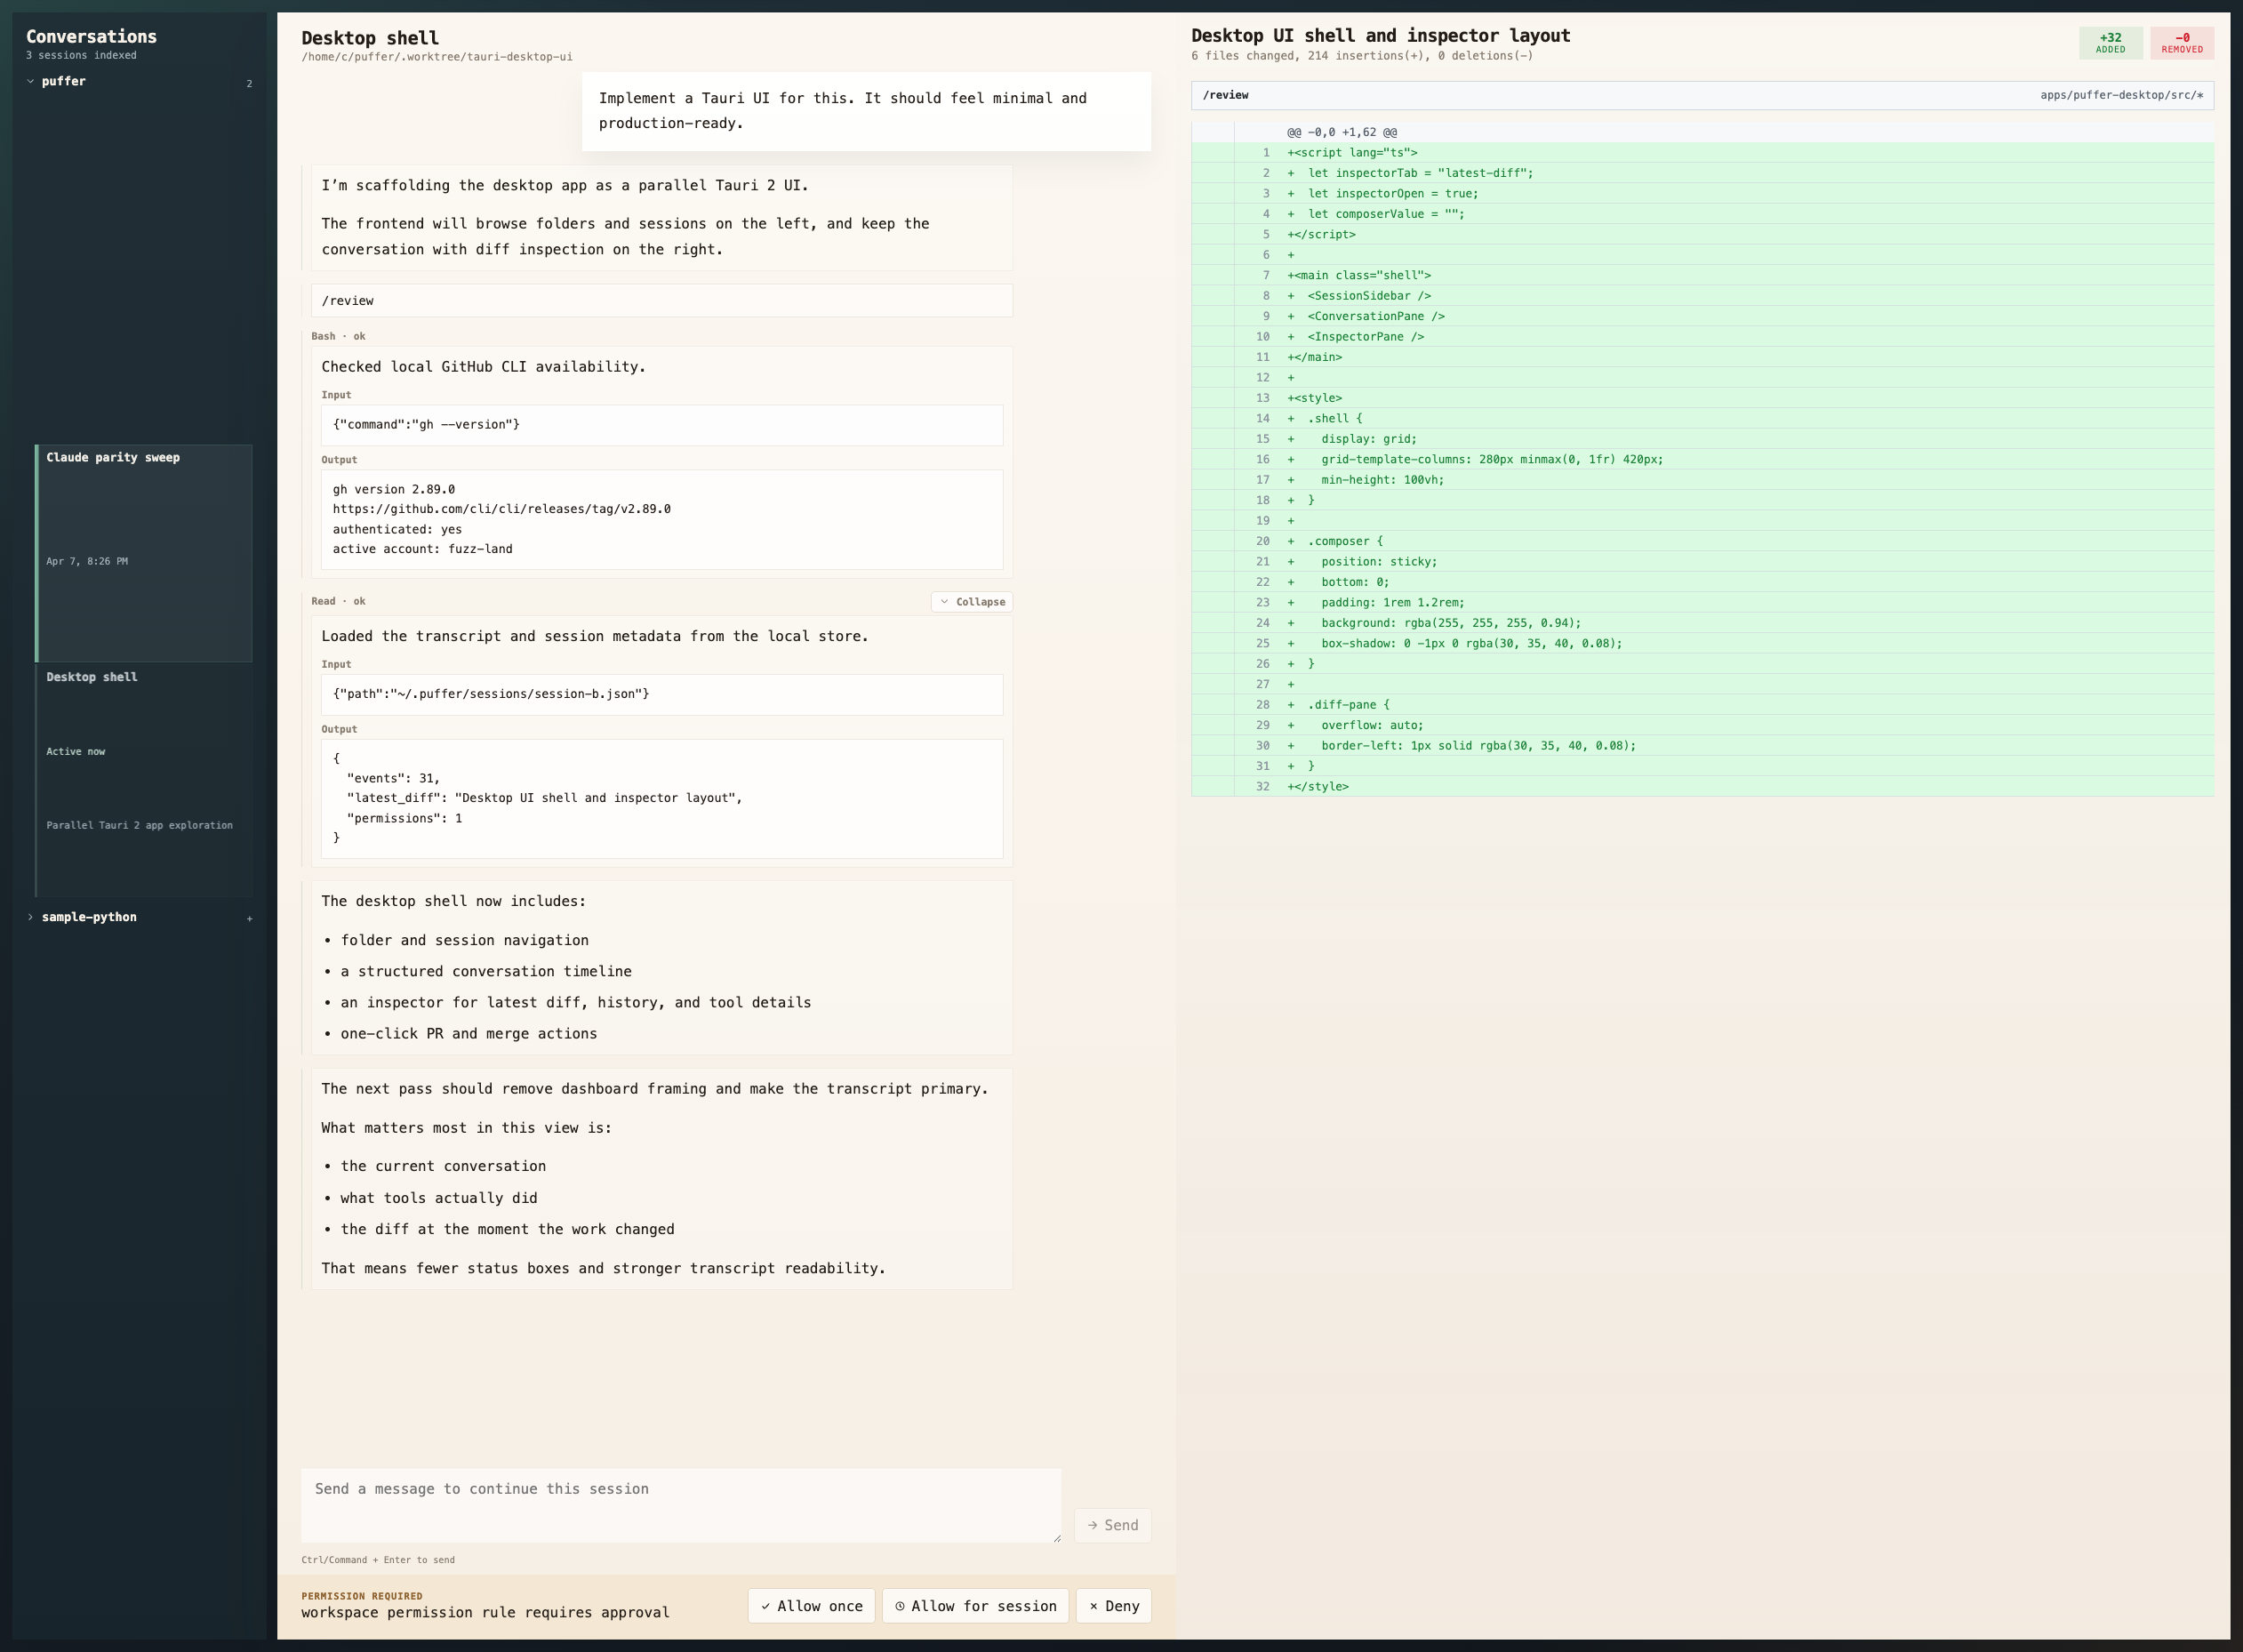
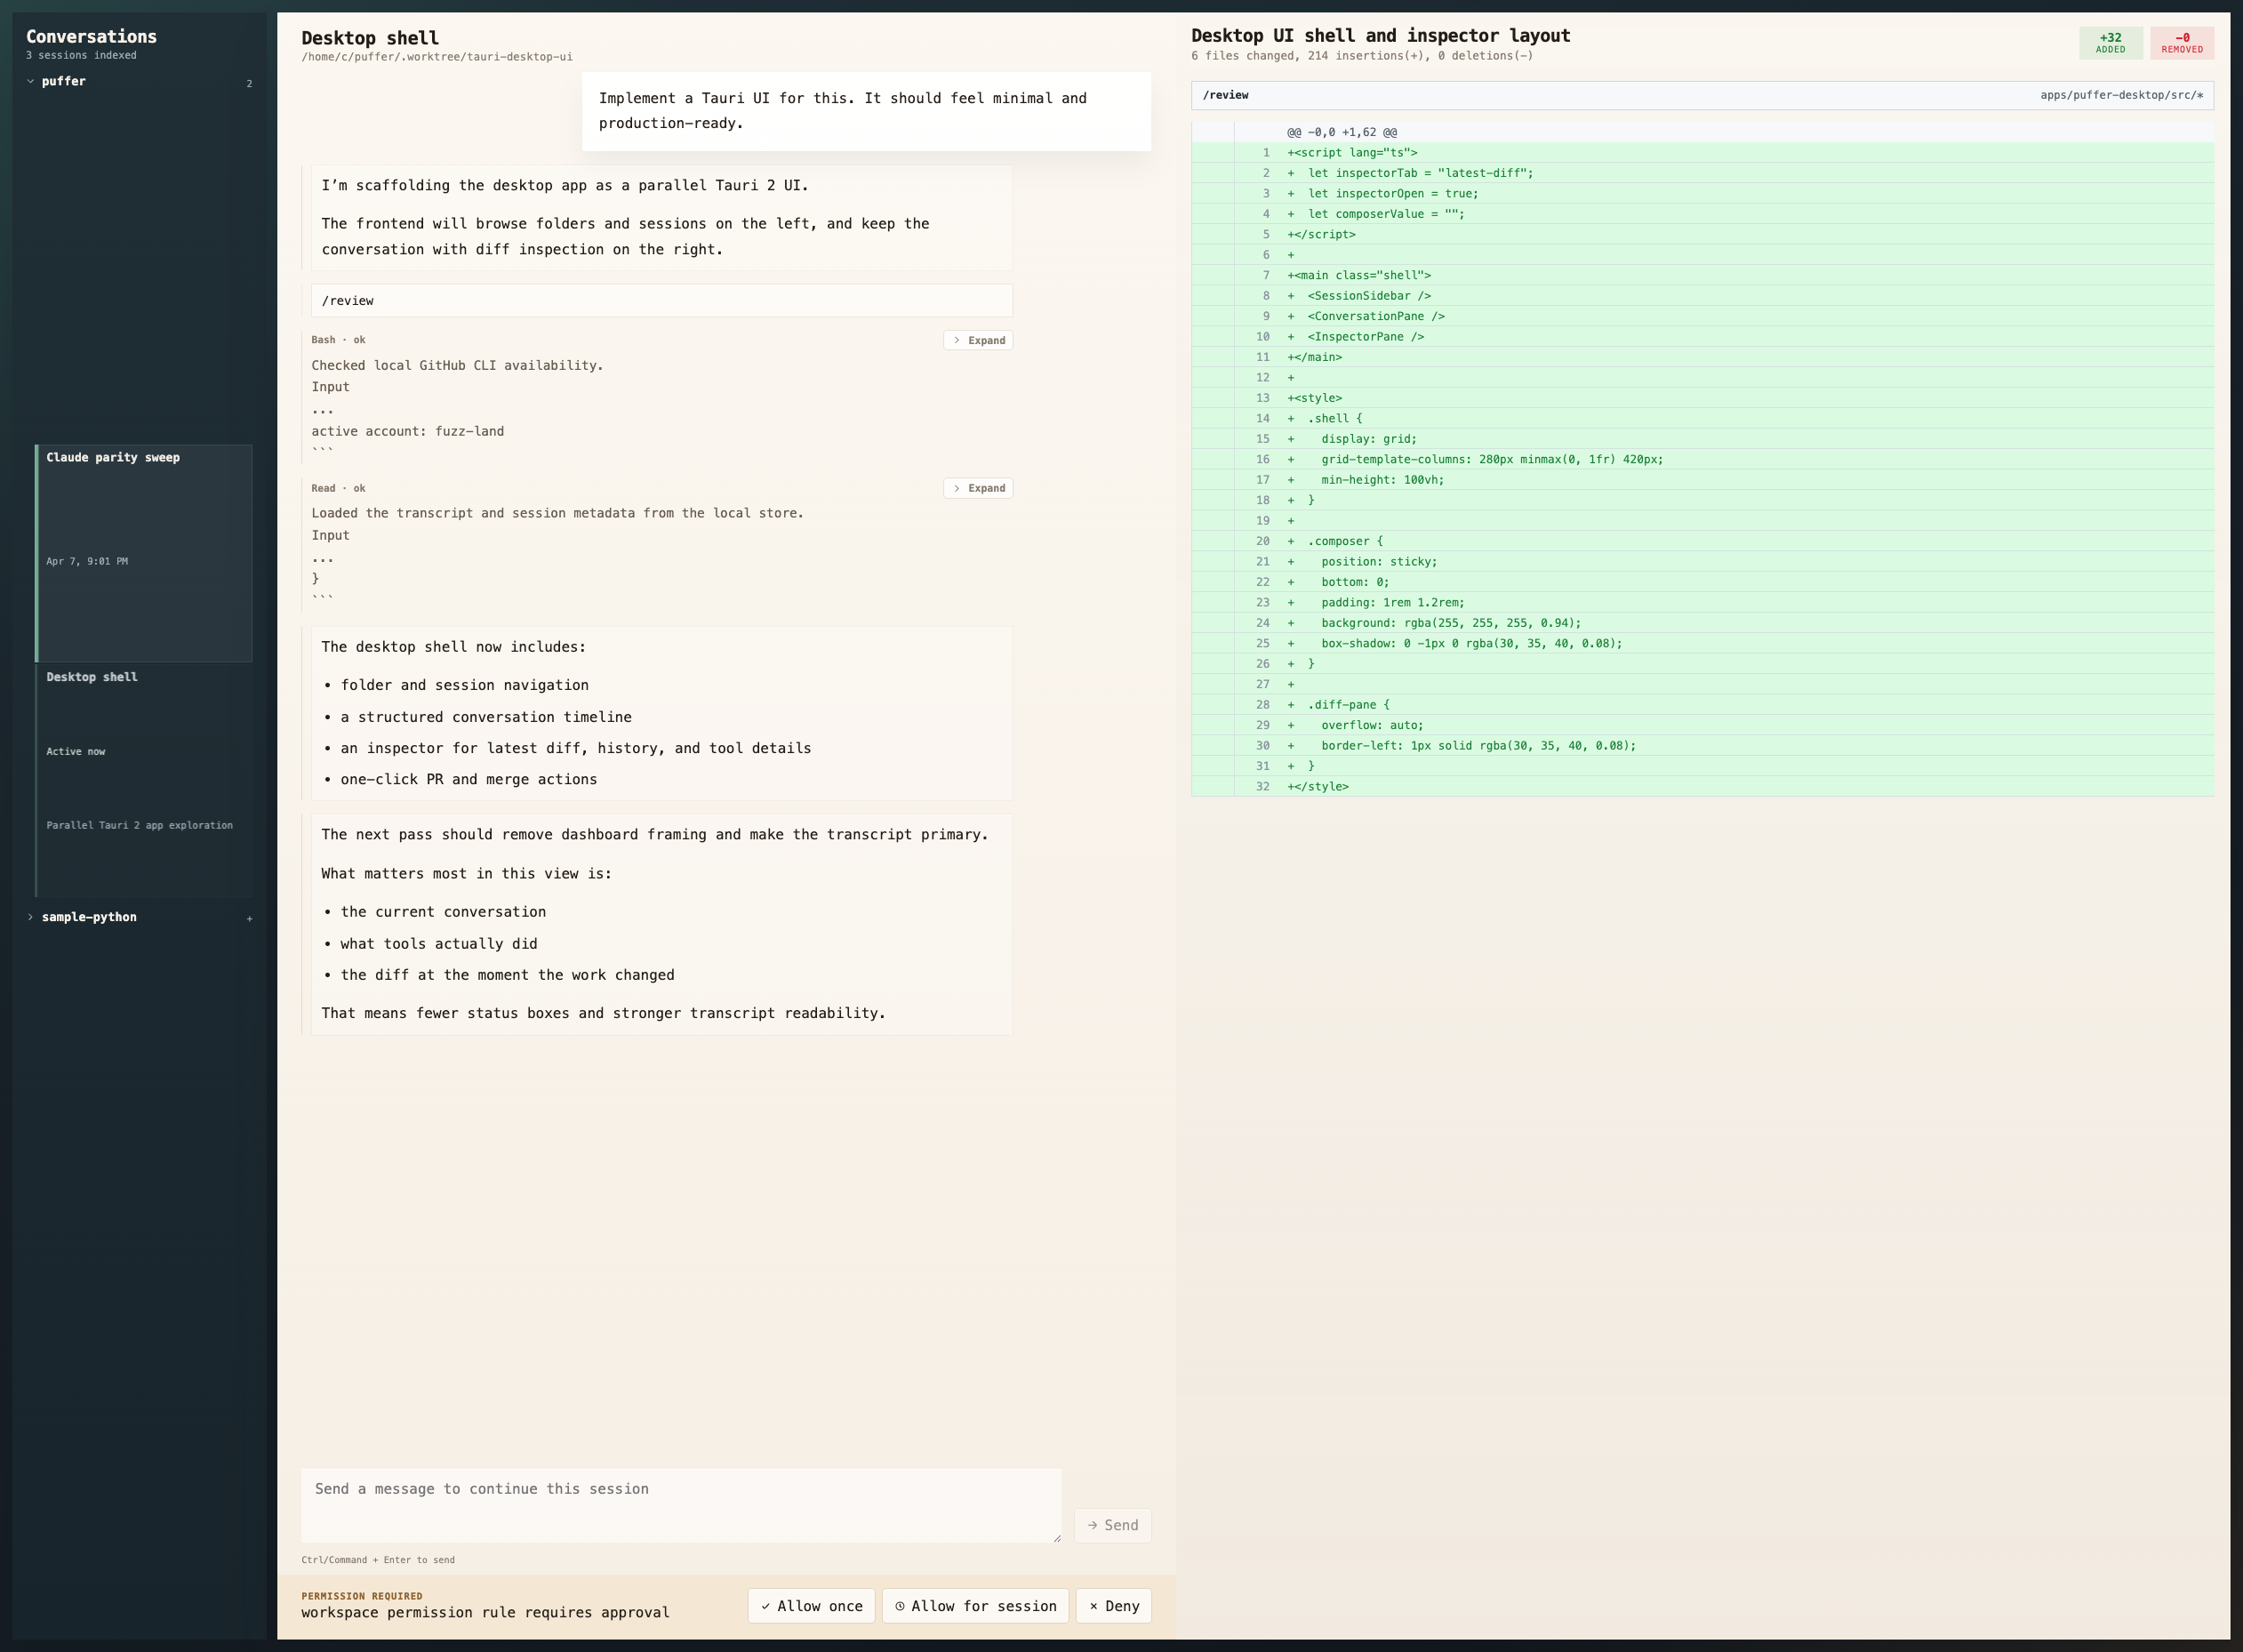
Auto-collapse dense desktop transcript records

diff --git a/apps/puffer-desktop/src/lib/components/ConversationPane.svelte b/apps/puffer-desktop/src/lib/components/ConversationPane.svelte
@@ -60,7 +60,16 @@
   }
 
   function shouldCollapse(item: TimelineItem): boolean {
-    return item.kind !== "user" && lineCount(item) > 12;
+    if (item.kind === "user") {
+      return false;
+    }
+    if (item.kind === "tool" || item.kind === "diff") {
+      return lineCount(item) > 8;
+    }
+    if (item.kind === "assistant") {
+      return lineCount(item) > 10;
+    }
+    return lineCount(item) > 12;
   }
 
   function previewText(item: TimelineItem): string {
@@ -153,6 +162,11 @@
   $: transcriptItems = timeline.filter((item) => item.kind !== "permission");
   $: {
     const next = new Set(collapsedIds);
+    for (const item of transcriptItems) {
+      if (shouldCollapse(item)) {
+        next.add(item.id);
+      }
+    }
     for (const id of Array.from(next)) {
       if (!transcriptItems.some((item) => item.id === id && shouldCollapse(item))) {
         next.delete(id);